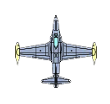
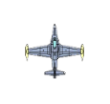
change the picture of boss and the size of my plane

Changed region(s): [[0.1364, 0.1442, 0.9, 0.8654]]

diff --git a/enemy.py b/enemy.py
@@ -301,10 +301,10 @@ class Enemy8(pygame.sprite.Sprite):
         # here we difine the destory picture of the enemy
         self.destroy_images = []
         self.destroy_images.extend([\
-             pygame.image.load("images/3.png").convert_alpha(),\
-             pygame.image.load("images/4.png").convert_alpha(),\
-             pygame.image.load("images/5.png").convert_alpha(),\
-             pygame.image.load("images/1.png").convert_alpha(),\
+             pygame.image.load("images/boss2.jpg").convert_alpha(),\
+             pygame.image.load("images/boss3.png").convert_alpha(),\
+             pygame.image.load("images/boss4.png").convert_alpha(),\
+             pygame.image.load("images/boss5.png").convert_alpha(),\
              ])
         self.rect = self.image.get_rect()
         self.width = 700
